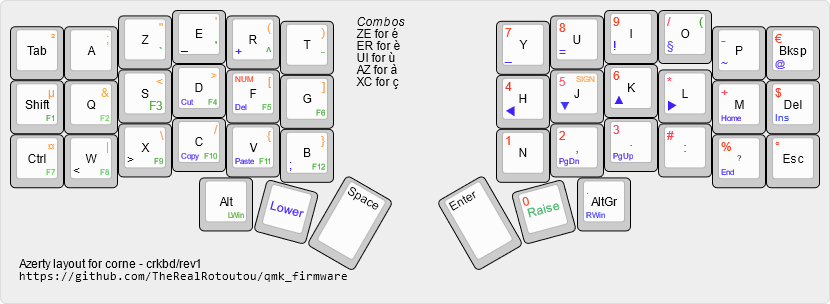
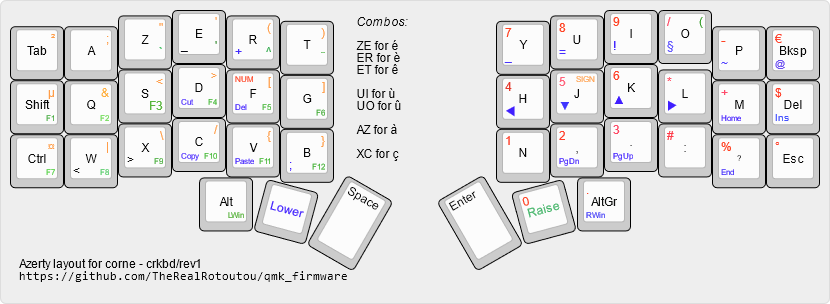
add circumflex combos and linux/win cut/paste/copy

Changed region(s): [[0.4217, 0.0888, 0.4819, 0.3849], [0.4217, 0.4737, 0.4819, 0.5329], [0.4217, 0.4145, 0.4819, 0.4441]]

diff --git a/keyboards/crkbd/keymaps/TheRealRotoutou/keymap.c b/keyboards/crkbd/keymaps/TheRealRotoutou/keymap.c
@@ -27,18 +27,61 @@ enum layers {
   _SIGNS
 };
 
+// Macros for circumflex
+enum custom_keycodes {
+    FR_ECIR = SAFE_RANGE,
+    FR_UCIR,
+};
+
+bool process_record_user(uint16_t keycode, keyrecord_t *record) {
+    switch (keycode) {
+    case FR_ECIR:
+        if (record->event.pressed) {
+            register_code16(FR_CIRC);
+            register_code16(FR_E);
+        } else {
+            unregister_code16(FR_CIRC);
+            unregister_code16(FR_E);
+        }
+        return false;
+
+    case FR_UCIR:
+        if (record->event.pressed) {
+            register_code16(FR_CIRC);
+            register_code16(FR_U);
+        } else {
+            unregister_code16(FR_CIRC);
+            unregister_code16(FR_U);
+        }
+        return false;
+
+    default:
+        return true;
+    }
+}
+
+// Combos for french accents
 const uint16_t PROGMEM FR_EGRV_combo[] = {FR_Z, FR_E, COMBO_END};
 const uint16_t PROGMEM FR_EACU_combo[] = {FR_E, FR_R, COMBO_END};
+const uint16_t PROGMEM FR_ECIR_combo[] = {FR_E, FR_T, COMBO_END};
 const uint16_t PROGMEM FR_UGRV_combo[] = {FR_U, FR_I, COMBO_END};
+const uint16_t PROGMEM FR_UCIR_combo[] = {FR_U, FR_O, COMBO_END};
 const uint16_t PROGMEM FR_AGRV_combo[] = {FR_A, FR_Z, COMBO_END};
 const uint16_t PROGMEM FR_CCED_combo[] = {FR_X, FR_C, COMBO_END};
 combo_t key_combos[] = {
     COMBO(FR_EGRV_combo, FR_EGRV),
     COMBO(FR_EACU_combo, FR_EACU),
+    COMBO(FR_ECIR_combo, FR_ECIR),
     COMBO(FR_UGRV_combo, FR_UGRV),
+    COMBO(FR_UCIR_combo, FR_UCIR),
     COMBO(FR_AGRV_combo, FR_AGRV),
     COMBO(FR_CCED_combo, FR_CCED)
 };
+
+// cut/copy/paste that works both on linux and windows.
+#define LWCOPY LCTL(KC_INS)    // Ctrl+Ins
+#define LWCUT LSFT(KC_DEL)     // Maj+Suppr
+#define LWPASTE LSFT(KC_INS)   // Maj+Ins 
 
 // Base layer - Middle of the key - black
 const uint16_t PROGMEM keymaps[][MATRIX_ROWS][MATRIX_COLS] = {
@@ -59,9 +102,9 @@ const uint16_t PROGMEM keymaps[][MATRIX_ROWS][MATRIX_COLS] = {
   //,-----------------------------------------------------------------------.                          ,-----------------------------------------------------------------------.
          XXXXXXX,    XXXXXXX,    XXXXXXX,    XXXXXXX,    XXXXXXX,    XXXXXXX,                               FR_UNDS,     FR_EQL,    FR_EXLM,    FR_SECT,    FR_TILD,      FR_AT,
   //|-----------+-----------+-----------+-----------+-----------+-----------|                          |-----------+-----------+-----------+-----------+-----------+-----------|
-         XXXXXXX,    XXXXXXX,    XXXXXXX,    XXXXXXX, LCTL(FR_X),     KC_DEL,                               KC_LEFT,    KC_DOWN,      KC_UP,    KC_RGHT,    KC_HOME,     KC_INS,
+         XXXXXXX,    XXXXXXX,    XXXXXXX,      LWCUT,     KC_DEL,    XXXXXXX,                               KC_LEFT,    KC_DOWN,      KC_UP,    KC_RGHT,    KC_HOME,     KC_INS,
   //|-----------+-----------+-----------+-----------+-----------+-----------|                          |-----------+-----------+-----------+-----------+-----------+-----------|
-         XXXXXXX,    XXXXXXX,    XXXXXXX,    XXXXXXX, LCTL(FR_C), LCTL(FR_V),                               XXXXXXX,    KC_PGDN,    KC_PGUP,    XXXXXXX,     KC_END,    XXXXXXX,
+         XXXXXXX,    XXXXXXX,    XXXXXXX,     LWCOPY,    LWPASTE,    XXXXXXX,                               XXXXXXX,    KC_PGDN,    KC_PGUP,    XXXXXXX,     KC_END,    XXXXXXX,
   //|-----------+-----------+-----------+-----------+-----------+-----------+-----------|  |-----------+-----------+-----------+-----------+-----------+-----------+-----------|
                                                          _______,    _______,    _______,        _______,   _______,     KC_RWIN
                                                       //`-------------------------------'  `-----------------------------------'
